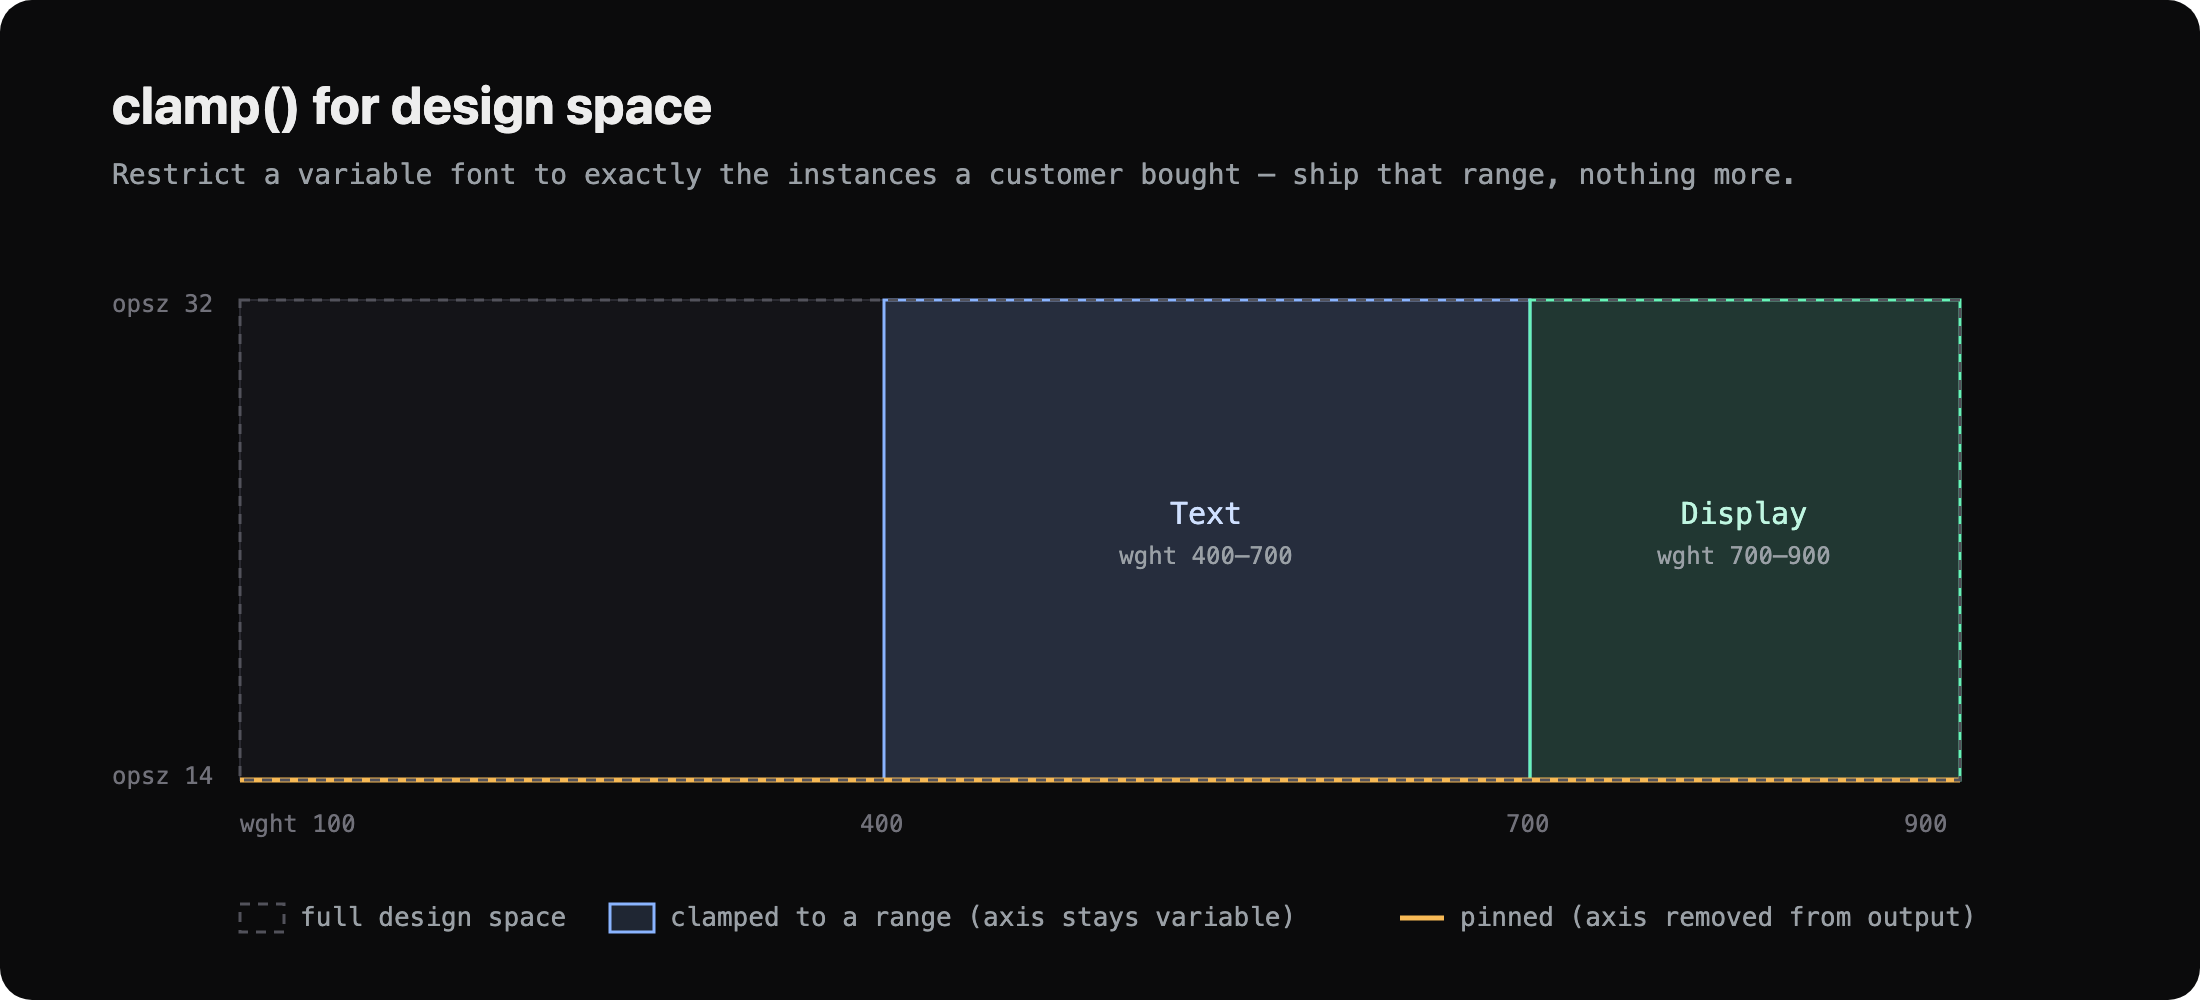
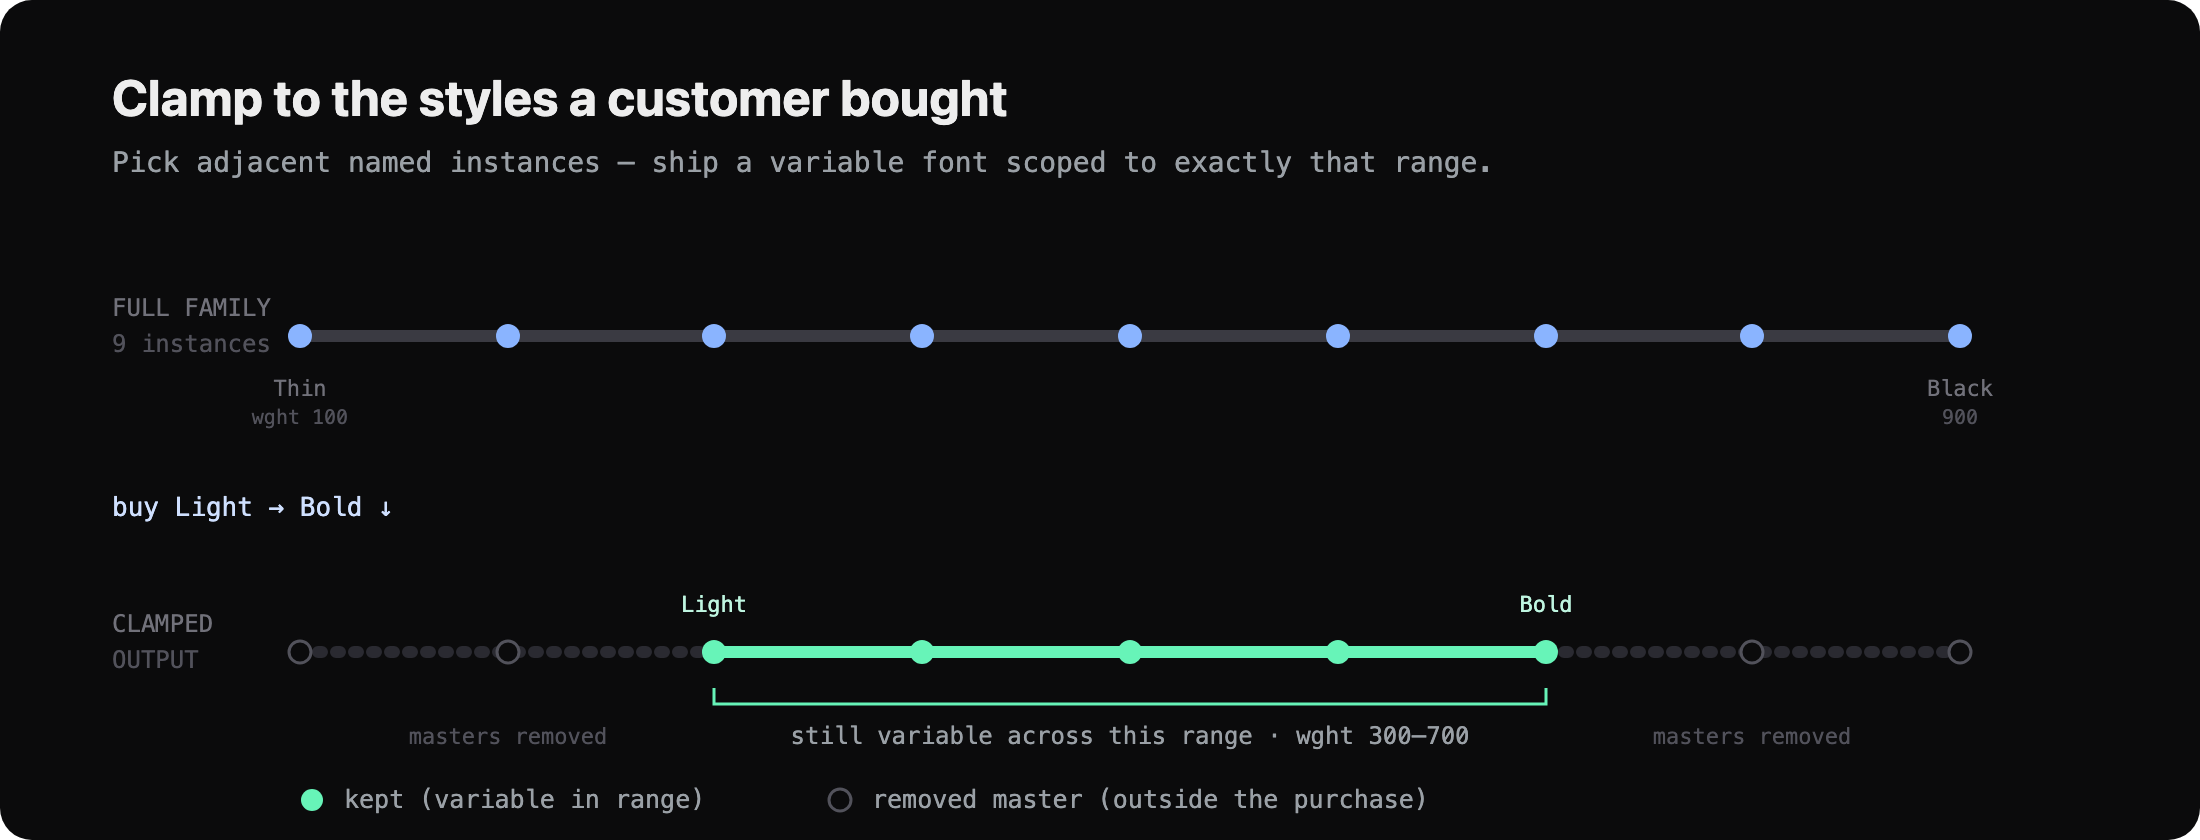
v2.1.4 — redraw the diagram: instances→clamped-range (1D weight), not opsz/pinning
The old hero conflated clamping a weight range with pinning the opsz axis, which
isn't the core operation. New diagram: full family (9 instances) → buy adjacent
styles (Light–Bold) → output keeps that weight range (still variable), masters
outside removed. Cache-bust ?v=2 + matching alt text.

diff --git a/README.md b/README.md
@@ -10,7 +10,7 @@ npm install @liiift-studio/vf-clamp
 
 **[Interactive demo at vfclamp.com →](https://vfclamp.com)**
 
-![clamp() for design space: a variable font's full weight × optical-size range, with "Text" (wght 400–700) and "Display" (wght 700–900) clamped to sub-ranges and an axis pinned](https://raw.githubusercontent.com/Liiift-Studio/vf-clamp/main/assets/design-space.png?v=1)
+![Clamp to the styles a customer bought: a weight axis showing a full family's nine named instances (Thin–Black), and a clamped output that keeps only Light–Bold (wght 300–700) as a variable range while the masters outside the purchase are removed](https://raw.githubusercontent.com/Liiift-Studio/vf-clamp/main/assets/design-space.png?v=2)
 
 ---
 